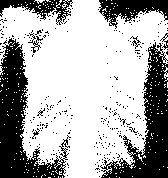
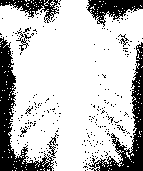
feat:finished bone instance alpha segmentation and added centroid feature

diff --git a/index.py b/index.py
@@ -37,7 +37,7 @@ for filename in dcmFiles:
   # Filter by Hounsfield units (HU)
 
   segmentedBGR = ds.getSegmentedBGR([
-      [7, 100, (255, 0, 0)], [50, 200, (0, 0, 255)]])
+      [7, 100, (255, 0, 0)], [50, 300, (0, 0, 255)]])
 
   boneImg = Image(segmentedBGR, "Bone")
   metastasisImg = Image(segmentedBGR, "Metastasis")
@@ -63,41 +63,56 @@ for filename in dcmFiles:
   metastasisImg.findCountours(1)
   features = metastasisImg.findContoursFeatures()
 
+  if len(features) == 0:
+    results.write('We did not detected any metastasis\n')
+
   availableBoneParts = []
-  if len(features) > 0:
-    # Here we split the bone image into bone parts, so we can discover witch one of them is suffering from metastasis
-    # In this code, we are using instance detection using SIFT and homography or template matching by Normalized cross correlation
 
-    craniumBySideRect = boneImg.templateMatch(craniumBySide)
-    if craniumBySideRect != None:
-      availableBoneParts.append(
-          dict(name=craniumBySide.getName(), polygon=craniumBySideRect))
+  # Here we split the bone image into bone parts, so we can discover witch one of them is suffering from metastasis
+  # In this code, we are using instance detection using SIFT and homography or template matching by Normalized cross correlation
 
-    legsRect = boneImg.templateMatch(legs)
-    if legsRect != None:
-      availableBoneParts.append(
-          dict(name=legs.getName(), polygon=legsRect))
+  craniumBySideRect = boneImg.templateMatch(craniumBySide)
+  if craniumBySideRect != None:
+    availableBoneParts.append(
+        dict(name=craniumBySide.getName(), polygon=craniumBySideRect))
 
-    armRect = boneImg.templateMatch(arm)
-    if armRect != None:
-      availableBoneParts.append(
-          dict(name=arm.getName(), polygon=armRect))
+  chestRect = boneImg.templateMatch(chest)
+  if chestRect != None:
+    availableBoneParts.append(dict(name=chest.getName(), polygon=chestRect))
 
-    chestRect = boneImg.templateMatch(chest)
-    if chestRect != None:
-      availableBoneParts.append(dict(name=chest.getName(), polygon=chestRect))
+  rightArmRect = boneImg.templateMatch(arm)
+  if rightArmRect != None and chestRect != None:
+    rightArm_bottom_left, rightArm_top_left, rightArm_top_right, rightArm_bottom_right = rightArmRect
+    chest_bottom_left, chest_top_left, chest_top_right, chest_bottom_right = chestRect
+    w = rightArm_top_right[0] - rightArm_top_left[0]
+    leftArmRect = [[chest_bottom_right[0], rightArm_bottom_left[1]], [chest_top_right[0], rightArm_top_left[1]], [chest_top_right[0] + w, rightArm_top_right[1]], [
+        chest_bottom_right[0] + w, rightArm_bottom_right[1]]]
+    availableBoneParts.append(
+        dict(name='rightArm', polygon=rightArmRect))
+    availableBoneParts.append(
+        dict(name='leftArm', polygon=leftArmRect))
 
-    waistRect = boneImg.templateMatch(waist)
-    if waistRect != None:
-      availableBoneParts.append(dict(name=waist.getName(), polygon=waistRect))
+  waistRect = boneImg.templateMatch(waist)
+  if waistRect != None:
+    availableBoneParts.append(dict(name=waist.getName(), polygon=waistRect))
 
-  # boneImg.gray2bgr()
+  legsRect = boneImg.templateMatch(legs)
+  if legsRect != None:
+    bottom_left, top_left, top_right, bottom_right = legsRect
+    halfSize = (top_right[0] - top_left[0])/2
+    rightLegRect = [bottom_left, top_left, [top_left[0] + halfSize,
+                                            top_right[1]], [bottom_left[0] + halfSize, bottom_right[1]]]
+    leftLegRect = [[bottom_left[0] + halfSize, bottom_left[1]],
+                   [top_left[0] + halfSize, top_left[1]], top_right, bottom_right]
+    availableBoneParts.append(
+        dict(name='rightLeg', polygon=rightLegRect))
+    availableBoneParts.append(
+        dict(name='leftLeg', polygon=leftLegRect))
 
-  defaultImage.drawPolylines(craniumBySideRect)
-  defaultImage.drawPolylines(legsRect)
-  defaultImage.drawPolylines(armRect)
-  defaultImage.drawPolylines(chestRect)
-  defaultImage.drawPolylines(waistRect)
+  for bonePart in availableBoneParts:
+    defaultImage.drawText(
+        bonePart['name'], int(bonePart['polygon'][0][0]), int(bonePart['polygon'][0][1] - 20), (0, 255, 0), 2, 0.6)
+    defaultImage.drawPolylines(bonePart['polygon'])
 
   metastasisImg.gray2bgr()
   for i in range(0, len(features)):  # Iterate over detected metastasis
@@ -109,11 +124,12 @@ for filename in dcmFiles:
         features[i]['area']) + ' located at ')
     for bonePart in availableBoneParts:
       if isPointsInsidePolygon(features[i]['convexHull'], bonePart['polygon']).all():
-        results.write(bonePart['name'])
+        results.write(bonePart['name'] + ' ')
         isInside = True
     if isInside == False:
       results.write('unknown location')
-    results.write('\n')
+    results.write('(' + str(features[i]['centroid'][0]) +
+                  ',' + str(features[i]['centroid'][1]) + ')' + '\n')
 
   defaultImage.show()
   # boneImg.show()

diff --git a/Image.py b/Image.py
@@ -27,6 +27,9 @@ class Image:
     cv.imshow(self.__name, self.__img)
     cv.waitKey(0)
 
+  def drawText(self, txt, x, y, color=(0, 255, 0), thickness=2, scale=1.0, font=cv.FONT_HERSHEY_SIMPLEX):
+    cv.putText(self.__img, txt, (x, y), font, scale, color, thickness)
+
   def drawCircle(self, center, radious=1, color=(0, 255, 0), thickness=2):
     cv.circle(self.__img, center, radious, color, thickness)
 
